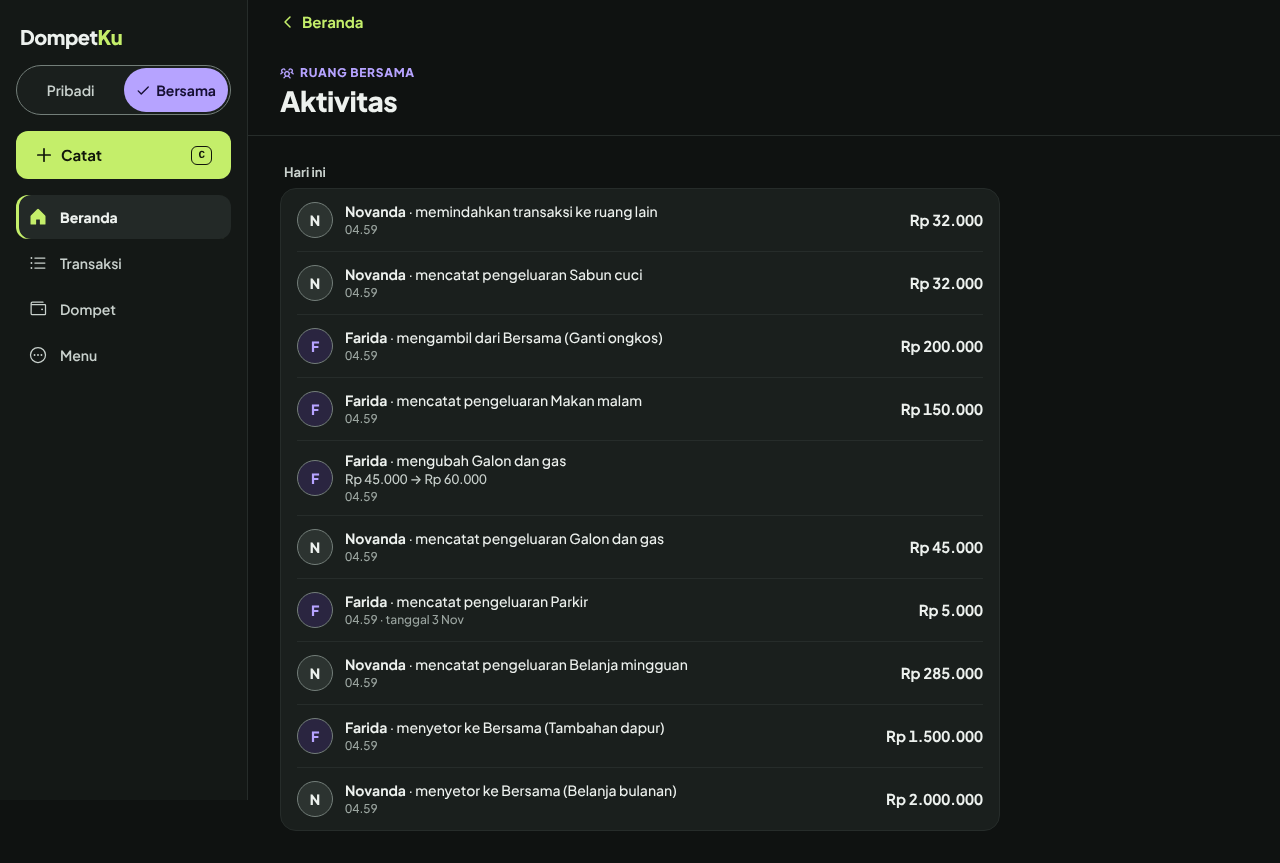
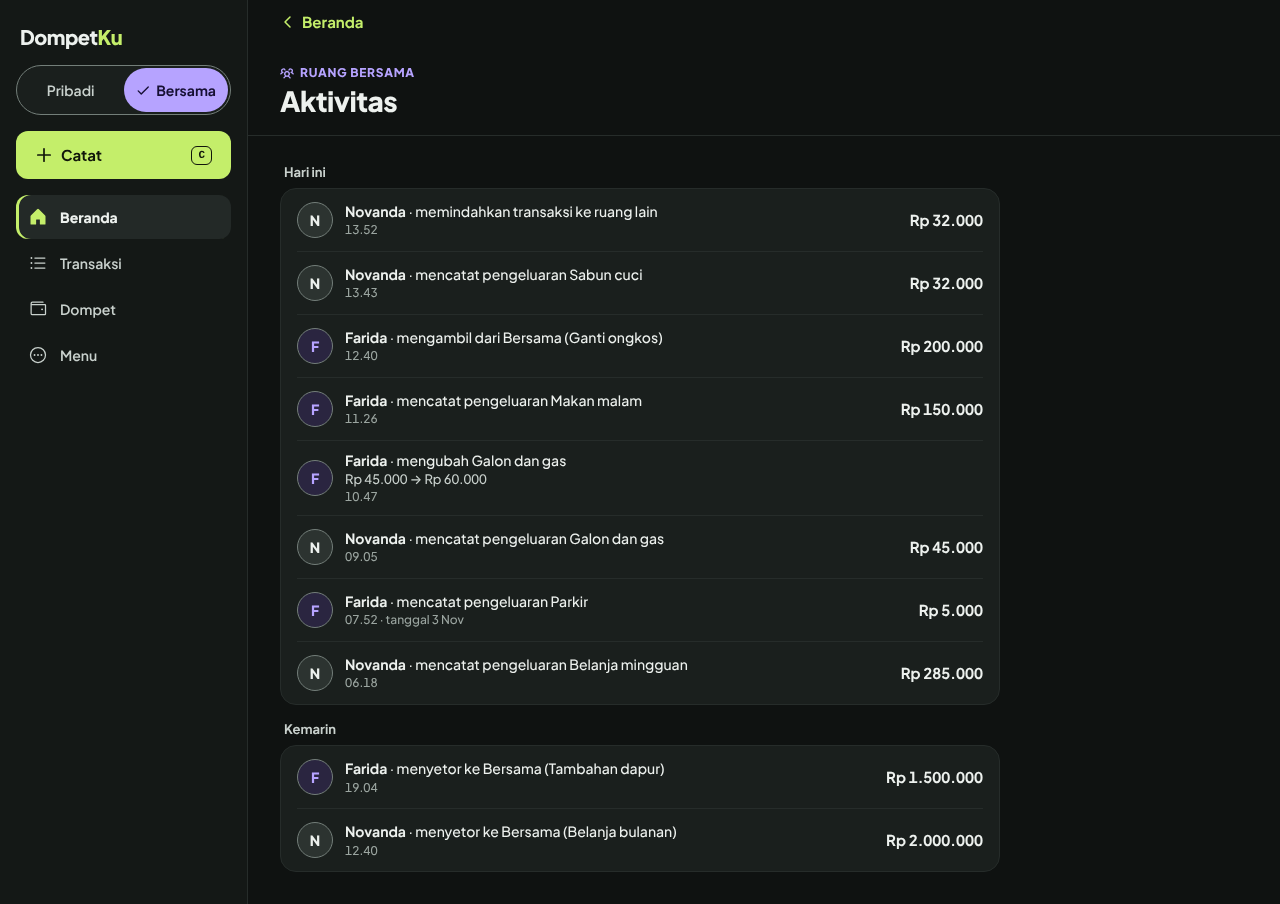
test(e2e): cek seed demo di Aktivitas dan screenshot portofolio S8
Rute /bersama/aktivitas masuk cek JS tanpa seed (K3); komentar privasi
dikoreksi (key React membawa id Bersama/anggota); screenshot: bilah tab
disembunyikan, 1280 setinggi dokumen, jam peristiwa disebar dengan grup Kemarin.

Claude-Session: https://claude.ai/code/session_017LUztQC5tXX2SyEZkdk5HM

diff --git a/apps/web/tests/e2e-bersama/screens-s8.spec.ts b/apps/web/tests/e2e-bersama/screens-s8.spec.ts
@@ -51,6 +51,25 @@ async function settle(page: Page) {
   await page.waitForTimeout(300);
 }
 
+/**
+ * Persiapan tangkapan halaman penuh: bilah tab bawah (fixed) disembunyikan agar tidak menutup
+ * baris terakhir; di 1280 viewport ditinggikan setinggi dokumen agar sidebar fixed (tinggi
+ * viewport) mengisi seluruh tangkapan tanpa pita kosong di bawahnya.
+ */
+async function prepareFullPage(page: Page, v: Shot) {
+  // CSSOM (bukan tag <style>): CSP halaman melarang gaya inline.
+  await page.evaluate(() => {
+    document.querySelectorAll<HTMLElement>('nav[aria-label="Tab utama"]').forEach((el) => {
+      el.style.display = 'none';
+    });
+  });
+  if (v.w === 1280) {
+    const h = await page.evaluate(() => document.documentElement.scrollHeight);
+    await page.setViewportSize({ width: v.w, height: Math.max(v.h, h) });
+    await settle(page);
+  }
+}
+
 async function shoot(
   browser: Browser,
   state: string,
@@ -74,6 +93,7 @@ async function shoot(
       await expect(page.locator('html')).toHaveAttribute('data-theme', v.theme);
       await expect(page.getByRole('heading', { name: target.heading }).first()).toBeVisible();
       await settle(page);
+      await prepareFullPage(page, v);
       await page.screenshot({
         path: `${target.dir}${name}-${String(v.w)}-${v.theme}.png`,
         fullPage: true,
@@ -540,6 +560,64 @@ async function wipeLedger(): Promise<void> {
   }
 }
 
+/**
+ * Waktu peristiwa fixture: semua baris baru dibuat dalam satu menit, jadi feed menampilkan satu
+ * jam yang sama. Sebar urut kausal (dibuat sebelum diubah) ke kemarin dan hari ini (WIB) dengan
+ * jam yang wajar. Hanya `changed_at` (trigger dimatikan lewat replica); nilai uang tidak disentuh.
+ */
+async function spreadEventTimes(): Promise<void> {
+  const admin = new pg.Client({ connectionString: process.env.AUTH_E2E_ADMIN_URL });
+  await admin.connect();
+  try {
+    await admin.query('begin');
+    await admin.query('set local session_replication_role = replica');
+    const { rows } = await admin.query<{ entry_id: string; version: number }>(
+      "select entry_id::text, version from app.entry_history where snapshot->>'kind' <> 'opening_balance' order by changed_at, entry_id, version",
+    );
+    const kemarin = [8 * 60 + 12, 12 * 60 + 40, 19 * 60 + 4, 20 * 60 + 31];
+    // Saldo awal tidak muncul di feed dan tidak ikut disebar.
+    const hariIni = [
+      6 * 60 + 18,
+      7 * 60 + 52,
+      9 * 60 + 5,
+      10 * 60 + 47,
+      11 * 60 + 26,
+      12 * 60 + 40,
+    ];
+    const nKemarin = Math.min(kemarin.length, Math.floor(rows.length / 2));
+    for (const [idx, r] of rows.entries()) {
+      const menit =
+        idx < nKemarin
+          ? kemarin[idx]
+          : (hariIni[idx - nKemarin] ?? (hariIni.at(-1) ?? 0) + (idx - nKemarin) * 9);
+      const dayOffset = idx < nKemarin ? 1 : 0;
+      await admin.query(
+        `update app.entry_history
+            set changed_at = ((app.today() - $3::int)::timestamp + make_interval(mins => $4::int))
+                             at time zone 'Asia/Jakarta'
+          where entry_id = $1::uuid and version = $2`,
+        [r.entry_id, r.version, dayOffset, menit],
+      );
+    }
+    // Entri yang peristiwanya dipindah ke kemarin ikut bertanggal kemarin; tanpa ini feed menulis
+    // `tanggal <hari ini>` (tanggal mundur palsu) di baris Kemarin.
+    const kemarinIds = [...new Set(rows.slice(0, nKemarin).map((r) => r.entry_id))];
+    await admin.query(
+      'update app.entries set occurred_on = app.today() - 1 where id = any($1::uuid[]) and occurred_on = app.today()',
+      [kemarinIds],
+    );
+    await admin.query(
+      `update app.entry_history
+          set snapshot = jsonb_set(snapshot, '{occurred_on}', to_jsonb((app.today() - 1)::text))
+        where entry_id = any($1::uuid[]) and snapshot->>'occurred_on' = app.today()::text`,
+      [kemarinIds],
+    );
+    await admin.query('commit');
+  } finally {
+    await admin.end();
+  }
+}
+
 test('@screens S8 kriteria keluar: Beranda, Aktivitas, Detail dua anggota (docs/design/s8)', async ({
   browser,
   ownerState,
@@ -622,6 +700,7 @@ test('@screens S8 kriteria keluar: Beranda, Aktivitas, Detail dua anggota (docs/
        p_to_space_id => $3, p_account_id => $4, p_category_id => $5)`,
     [randomUUID(), sabun, nP.sid, bca, catP?.id ?? ''],
   );
+  await spreadEventTimes();
   const [setoran] = await asUser<{ id: string }>(
     n.uid,
     `select id::text from app.entries where space_id = $1 and kind = 'space_transfer'

diff --git a/apps/web/tests/e2e-ledger/ledger.spec.ts b/apps/web/tests/e2e-ledger/ledger.spec.ts
@@ -489,7 +489,9 @@ test('JS mode nyata tanpa seed demo (K3)', async ({ browser, ownerState }) => {
     `/bersama/${r}`,
   ]);
   expect(detailPath).not.toBe('');
-  for (const path of [...paths, detailPath]) {
+  // /bersama/aktivitas (S8): page.tsx mengimpor view demo klien secara statis; chunk-nya harus
+  // bersih dari seed di mode nyata.
+  for (const path of [...paths, '/bersama/aktivitas', detailPath]) {
     // Konteks baru per rute: semua JS yang dimuat rute ini (muat awal, prefetch, muat malas
     // sampai jaringan diam) tidak boleh memuat seed demo.
     const context = await browser.newContext({ storageState: ownerState });

diff --git a/apps/web/src/features/bersama/contribution-card-view.tsx b/apps/web/src/features/bersama/contribution-card-view.tsx
@@ -8,7 +8,8 @@ import type { ContributionVM } from './types';
 /**
  * Kartu Kontribusi Beranda Bersama dua anggota (S8-K1, K2). Server Component tanpa JS klien dan
  * tanpa modul demo; hanya `ContributionVM`. Tanpa persentase, peringkat, bilah, atau warna
- * menang/kalah; angka nol netral. Tanpa id (anggota dan baris dikenali dari urutan).
+ * menang/kalah; angka nol netral. Tidak ada id yang tampil di DOM; key React membawa id anggota
+ * (user id anggota ruang ini) ke payload RSC, tanpa id akun, tautan, atau ruang lain.
  */
 export function ContributionCardView({ vm }: { vm: ContributionVM }) {
   return (

diff --git a/apps/web/src/features/bersama/activity-item-row.tsx b/apps/web/src/features/bersama/activity-item-row.tsx
@@ -8,7 +8,8 @@ import type { ActivityItemVM } from './types';
 
 /**
  * Baris feed Aktivitas Bersama (S8-A1/A3). Server Component tanpa JS klien (budget S8): hanya
- * props tampilan, tanpa id entri atau id anggota (hanya `href` bila baris menaut). Komponen
+ * props tampilan; tidak ada id di DOM selain `href` bila baris menaut. Key React (`entryId:version`)
+ * membawa id entri Bersama ke payload RSC, tanpa id akun, tautan, atau ruang lain. Komponen
  * prototipe `ActivityRow` sengaja tidak disentuh (headroom budget Beranda prototipe).
  */
 
